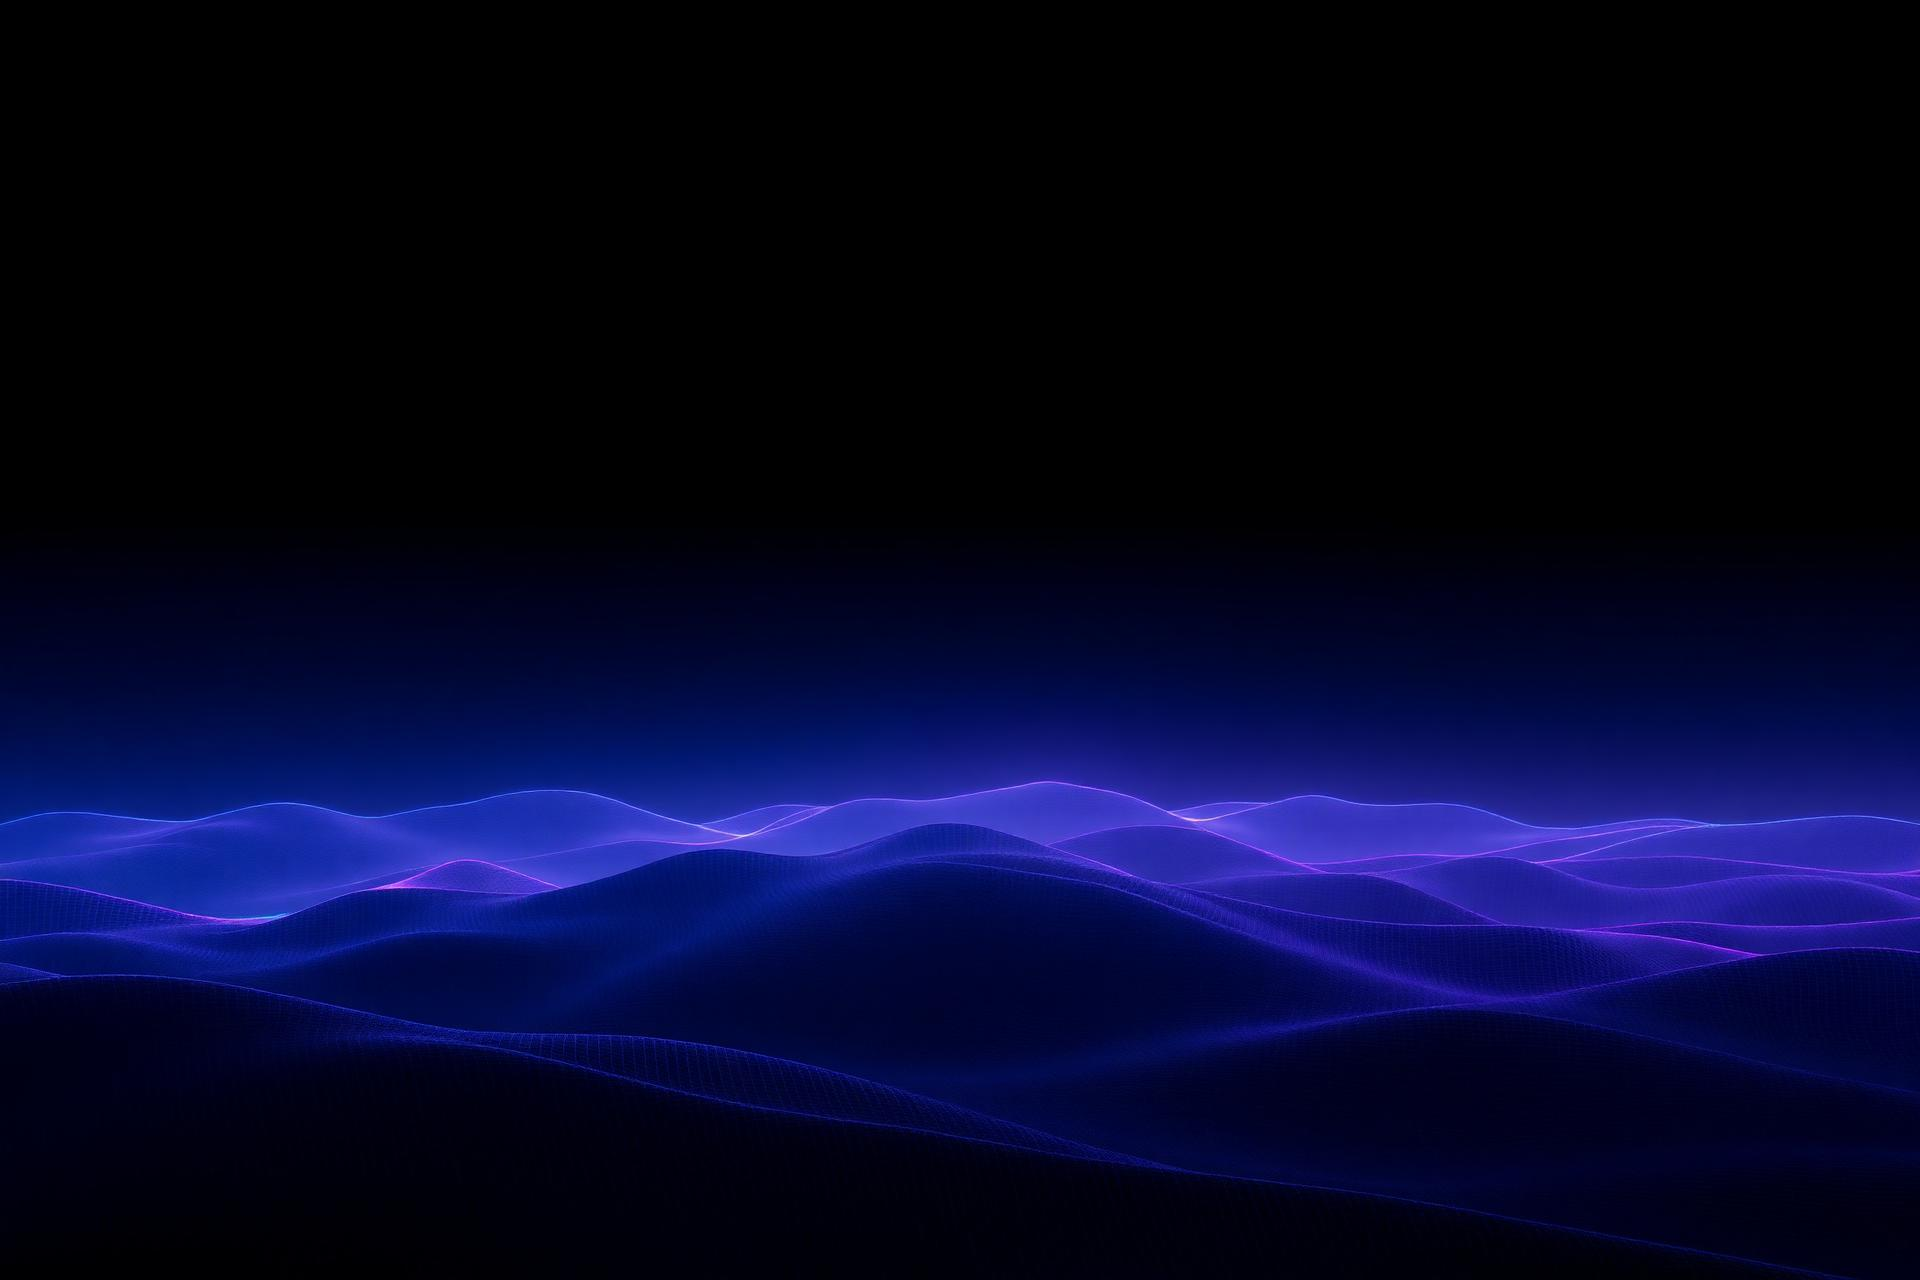
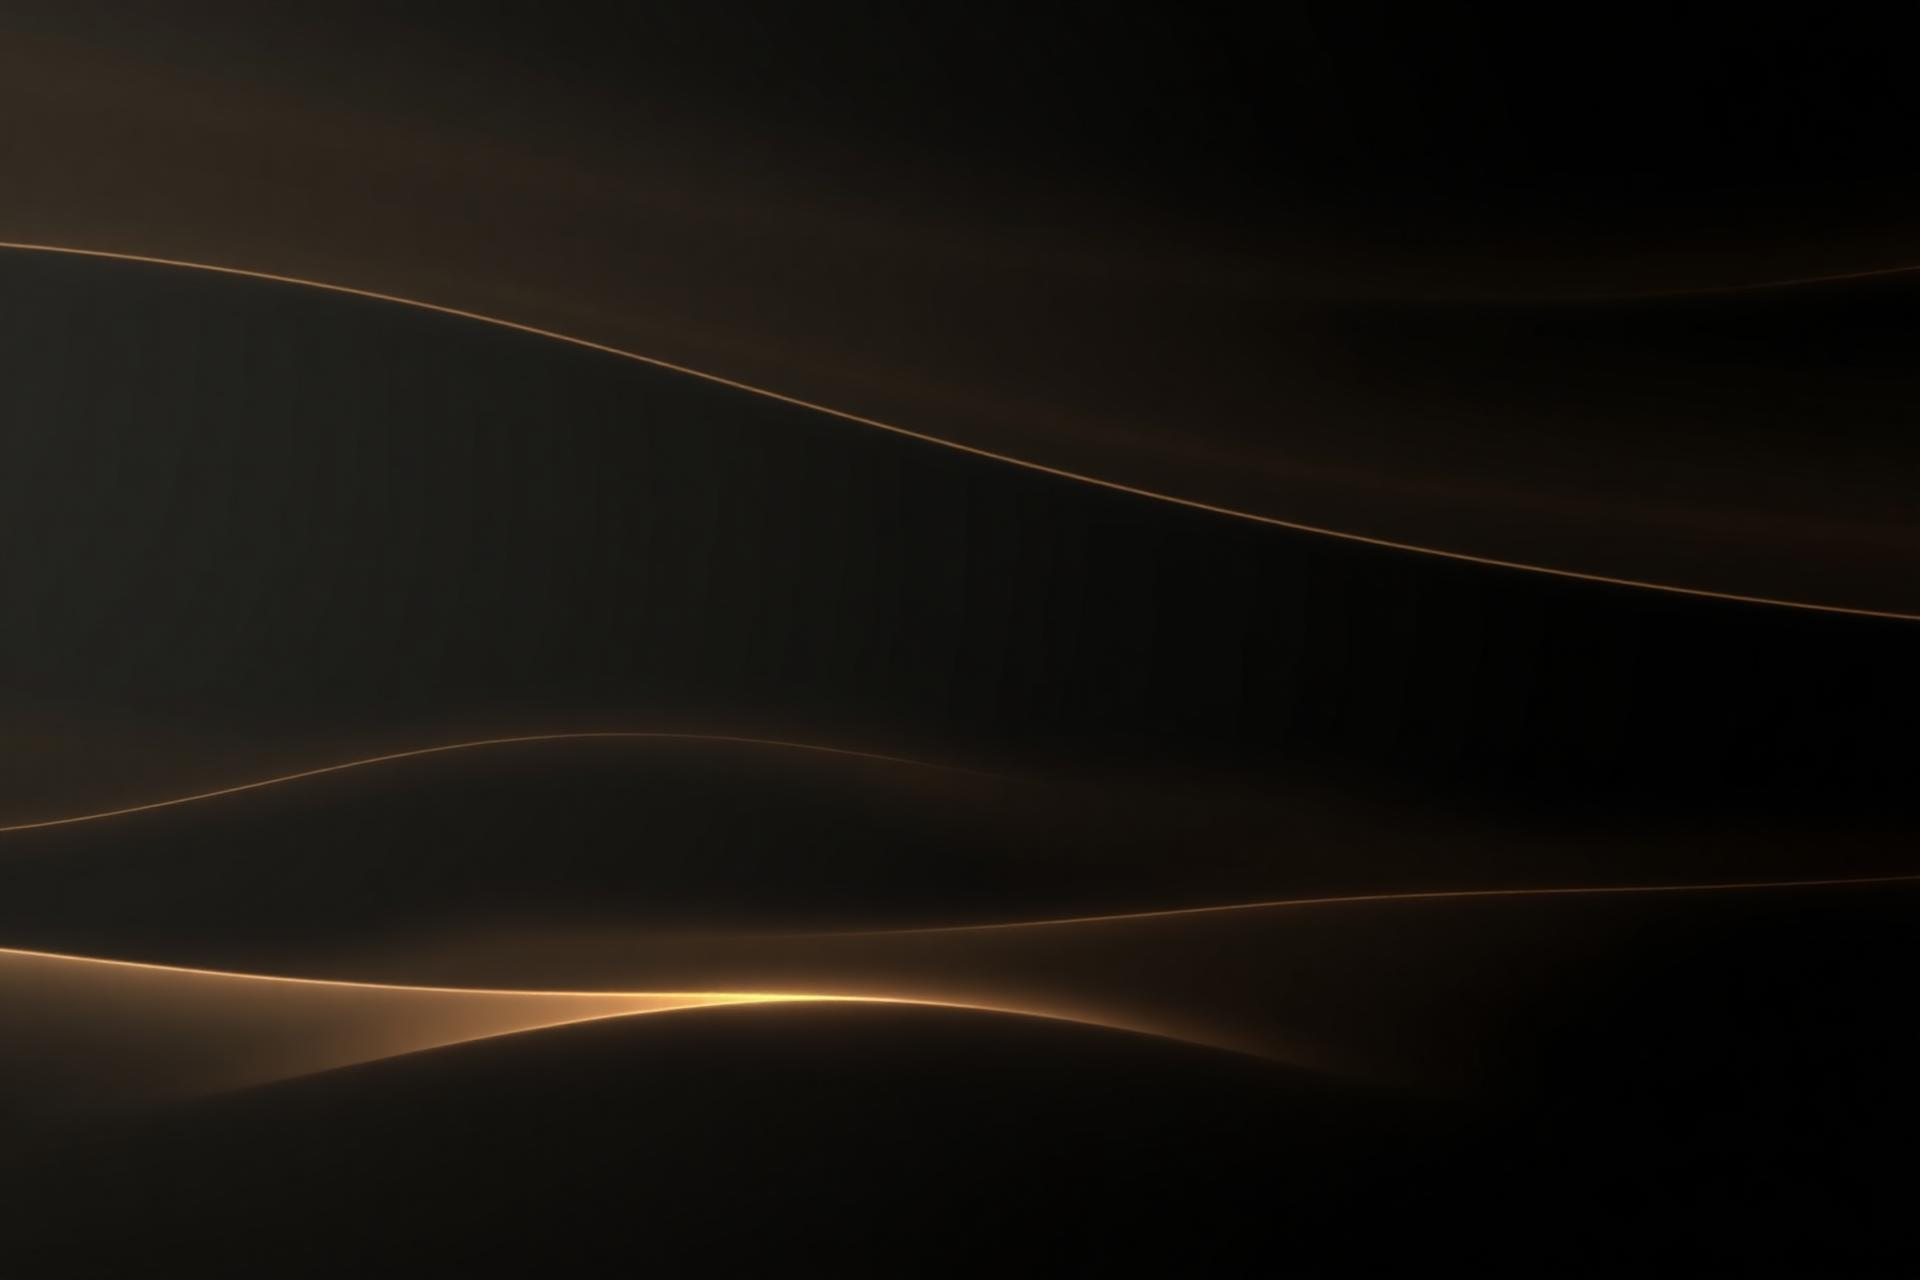
Changes

diff --git a/src/styles.css b/src/styles.css
@@ -58,36 +58,44 @@
 :root {
   --radius: 1rem;
 
-  /* Midnight Indigo palette */
-  --background: oklch(0.13 0.04 280);
-  --foreground: oklch(0.97 0.01 270);
-  --ink: oklch(0.08 0.03 280);
+  /* Luxury Black & Gold palette */
+  /* #0A0A0A */
+  --background: oklch(0.07 0 0);
+  /* #F8FAFC */
+  --foreground: oklch(0.98 0.005 250);
+  --ink: oklch(0.05 0 0);
 
-  --surface: oklch(0.17 0.05 280);
-  --surface-elevated: oklch(0.21 0.06 280);
+  /* #111827 navy */
+  --surface: oklch(0.19 0.03 265);
+  --surface-elevated: oklch(0.23 0.03 265);
 
-  --card: oklch(0.17 0.05 280);
-  --card-foreground: oklch(0.97 0.01 270);
-  --popover: oklch(0.17 0.05 280);
-  --popover-foreground: oklch(0.97 0.01 270);
+  /* glass card */
+  --card: oklch(1 0 0 / 0.04);
+  --card-foreground: oklch(0.98 0.005 250);
+  --popover: oklch(0.12 0.01 265);
+  --popover-foreground: oklch(0.98 0.005 250);
 
-  --primary: oklch(0.62 0.22 275);
-  --primary-foreground: oklch(0.99 0.005 270);
-  --electric: oklch(0.68 0.21 270);
-  --glow: oklch(0.62 0.22 275 / 0.55);
+  /* #D4AF37 gold */
+  --primary: oklch(0.76 0.135 88);
+  --primary-foreground: oklch(0.1 0.005 80);
+  /* #E6C55A gold hover */
+  --electric: oklch(0.83 0.14 90);
+  --glow: oklch(0.76 0.135 88 / 0.35);
 
-  --secondary: oklch(0.24 0.06 280);
-  --secondary-foreground: oklch(0.97 0.01 270);
-  --muted: oklch(0.22 0.05 280);
-  --muted-foreground: oklch(0.72 0.03 270);
-  --accent: oklch(0.28 0.08 278);
-  --accent-foreground: oklch(0.97 0.01 270);
+  --secondary: oklch(0.17 0.02 265);
+  --secondary-foreground: oklch(0.98 0.005 250);
+  --muted: oklch(0.17 0.02 265);
+  /* #94A3B8 */
+  --muted-foreground: oklch(0.7 0.025 255);
+  --accent: oklch(0.22 0.03 265);
+  --accent-foreground: oklch(0.98 0.005 250);
   --destructive: oklch(0.62 0.22 25);
   --destructive-foreground: oklch(0.99 0.005 270);
 
-  --border: oklch(1 0 0 / 0.08);
-  --input: oklch(1 0 0 / 0.1);
-  --ring: oklch(0.62 0.22 275);
+  /* gold-tinted border rgba(212,175,55,0.15) */
+  --border: oklch(0.76 0.135 88 / 0.18);
+  --input: oklch(0.76 0.135 88 / 0.2);
+  --ring: oklch(0.76 0.135 88);
 }
 
 @layer base {
@@ -106,8 +114,8 @@
     font-feature-settings: "ss01", "cv11";
     -webkit-font-smoothing: antialiased;
     background-image:
-      radial-gradient(ellipse 80% 50% at 50% -10%, oklch(0.3 0.15 275 / 0.4), transparent 60%),
-      radial-gradient(ellipse 60% 40% at 100% 100%, oklch(0.25 0.12 290 / 0.3), transparent 60%);
+      radial-gradient(ellipse 80% 50% at 50% -10%, oklch(0.76 0.135 88 / 0.08), transparent 60%),
+      radial-gradient(ellipse 60% 40% at 100% 100%, oklch(0.19 0.03 265 / 0.6), transparent 60%);
     background-attachment: fixed;
   }
 
